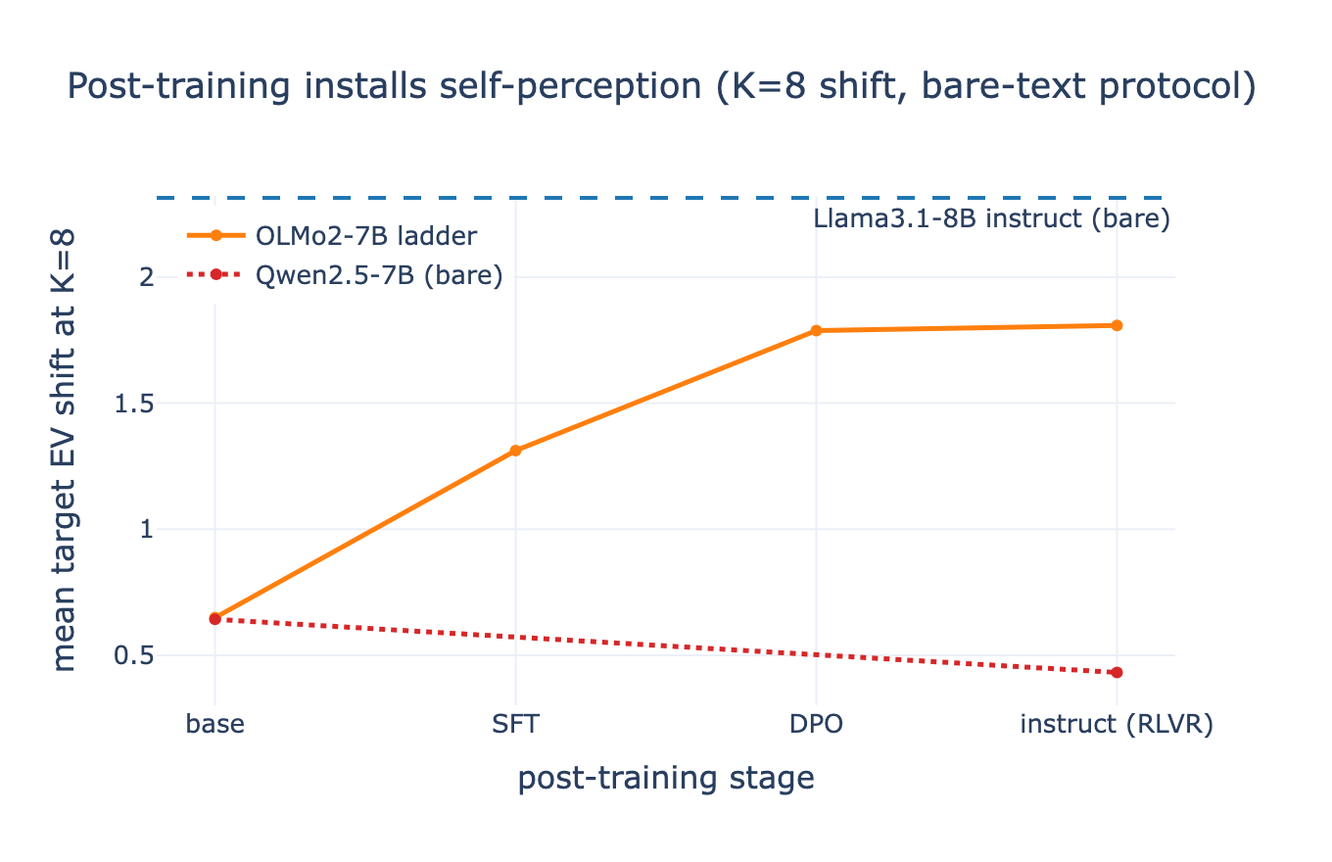
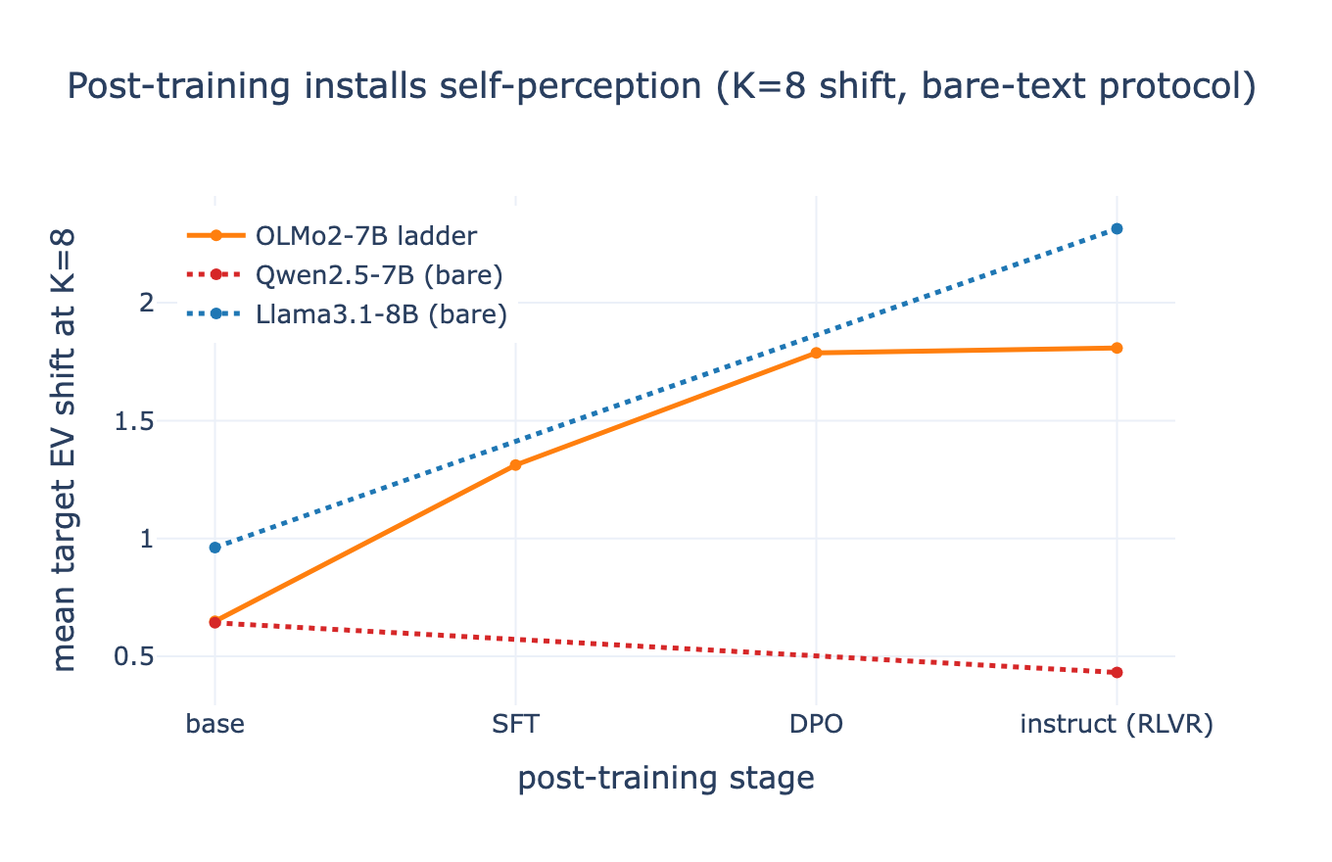
Note assets: Llama8Base folds into Exhibit 3 (other Claude ran it; analyzed here) — bases cluster low but not identical: Llama base +0.96 (10/20 items >+1) vs Qwen/OLMo +0.64/+0.65, paired p=.07/.10 marginal; base→own-instruct unambiguous (+0.96→+2.31, p=.007). Post-training multiplier by family: OL
Claude-Session: https://claude.ai/code/session_01WswaY6Pe8WTjJ8fkWw2pwh

diff --git a/rgb_reports/note_assets/fig_dose_response.html b/rgb_reports/note_assets/fig_dose_response.html
@@ -2,6 +2,6 @@
 <head><meta charset="utf-8" /></head>
 <body>
     <div>                        <script>window.PlotlyConfig = {MathJaxConfig: 'local'};</script>
-        <script charset="utf-8" src="https://cdn.plot.ly/plotly-3.4.0.min.js" integrity="sha256-KEmPoupLpFyGMyGAiOsiNDbKDKAvxXAn/W+oQa0ZAfk=" crossorigin="anonymous"></script>                <div id="e527c27c-555f-4b22-937a-86a04bb3e0d5" class="plotly-graph-div" style="height:440px; width:680px;"></div>            <script>                window.PLOTLYENV=window.PLOTLYENV || {};                                if (document.getElementById("e527c27c-555f-4b22-937a-86a04bb3e0d5")) {                    Plotly.newPlot(                        "e527c27c-555f-4b22-937a-86a04bb3e0d5",                        [{"line":{"color":"#1f77b4","width":2.5},"mode":"lines+markers","name":"Llama3.1-8B","x":[1,2,4,8,16,32],"y":[0.3215113865133689,0.7565782048769905,1.6692980164038846,2.626398513332851,3.0492405989334532,3.2888305071780772],"type":"scatter"},{"line":{"color":"#2ca02c","width":2.5},"mode":"lines+markers","name":"Gemma3-12B","x":[1,2,4,8,16,32],"y":[0.6683577570700046,0.8280305195939915,1.4369286830529788,1.82395749521288,2.1414539435204007,2.276292663532421],"type":"scatter"},{"line":{"color":"#d62728","width":2.5},"mode":"lines+markers","name":"Qwen2.5-7B","x":[1,2,4,8,16,32],"y":[-0.13380977864904015,0.08795590585218446,0.0576701126425989,0.08621995793043041,0.3238775951827736,0.5464746681226866],"type":"scatter"},{"line":{"color":"#9467bd","width":2.5},"mode":"lines+markers","name":"Phi4-3.8B","x":[1,2,4,8,16,32],"y":[0.12131485117013911,0.21246464582131827,0.22589328799117703,0.3476395492187805,0.49888159930901993,0.48372197911592824],"type":"scatter"}],                        {"template":{"data":{"barpolar":[{"marker":{"line":{"color":"white","width":0.5},"pattern":{"fillmode":"overlay","size":10,"solidity":0.2}},"type":"barpolar"}],"bar":[{"error_x":{"color":"#2a3f5f"},"error_y":{"color":"#2a3f5f"},"marker":{"line":{"color":"white","width":0.5},"pattern":{"fillmode":"overlay","size":10,"solidity":0.2}},"type":"bar"}],"carpet":[{"aaxis":{"endlinecolor":"#2a3f5f","gridcolor":"#C8D4E3","linecolor":"#C8D4E3","minorgridcolor":"#C8D4E3","startlinecolor":"#2a3f5f"},"baxis":{"endlinecolor":"#2a3f5f","gridcolor":"#C8D4E3","linecolor":"#C8D4E3","minorgridcolor":"#C8D4E3","startlinecolor":"#2a3f5f"},"type":"carpet"}],"choropleth":[{"colorbar":{"outlinewidth":0,"ticks":""},"type":"choropleth"}],"contourcarpet":[{"colorbar":{"outlinewidth":0,"ticks":""},"type":"contourcarpet"}],"contour":[{"colorbar":{"outlinewidth":0,"ticks":""},"colorscale":[[0.0,"#0d0887"],[0.1111111111111111,"#46039f"],[0.2222222222222222,"#7201a8"],[0.3333333333333333,"#9c179e"],[0.4444444444444444,"#bd3786"],[0.5555555555555556,"#d8576b"],[0.6666666666666666,"#ed7953"],[0.7777777777777778,"#fb9f3a"],[0.8888888888888888,"#fdca26"],[1.0,"#f0f921"]],"type":"contour"}],"heatmap":[{"colorbar":{"outlinewidth":0,"ticks":""},"colorscale":[[0.0,"#0d0887"],[0.1111111111111111,"#46039f"],[0.2222222222222222,"#7201a8"],[0.3333333333333333,"#9c179e"],[0.4444444444444444,"#bd3786"],[0.5555555555555556,"#d8576b"],[0.6666666666666666,"#ed7953"],[0.7777777777777778,"#fb9f3a"],[0.8888888888888888,"#fdca26"],[1.0,"#f0f921"]],"type":"heatmap"}],"histogram2dcontour":[{"colorbar":{"outlinewidth":0,"ticks":""},"colorscale":[[0.0,"#0d0887"],[0.1111111111111111,"#46039f"],[0.2222222222222222,"#7201a8"],[0.3333333333333333,"#9c179e"],[0.4444444444444444,"#bd3786"],[0.5555555555555556,"#d8576b"],[0.6666666666666666,"#ed7953"],[0.7777777777777778,"#fb9f3a"],[0.8888888888888888,"#fdca26"],[1.0,"#f0f921"]],"type":"histogram2dcontour"}],"histogram2d":[{"colorbar":{"outlinewidth":0,"ticks":""},"colorscale":[[0.0,"#0d0887"],[0.1111111111111111,"#46039f"],[0.2222222222222222,"#7201a8"],[0.3333333333333333,"#9c179e"],[0.4444444444444444,"#bd3786"],[0.5555555555555556,"#d8576b"],[0.6666666666666666,"#ed7953"],[0.7777777777777778,"#fb9f3a"],[0.8888888888888888,"#fdca26"],[1.0,"#f0f921"]],"type":"histogram2d"}],"histogram":[{"marker":{"pattern":{"fillmode":"overlay","size":10,"solidity":0.2}},"type":"histogram"}],"mesh3d":[{"colorbar":{"outlinewidth":0,"ticks":""},"type":"mesh3d"}],"parcoords":[{"line":{"colorbar":{"outlinewidth":0,"ticks":""}},"type":"parcoords"}],"pie":[{"automargin":true,"type":"pie"}],"scatter3d":[{"line":{"colorbar":{"outlinewidth":0,"ticks":""}},"marker":{"colorbar":{"outlinewidth":0,"ticks":""}},"type":"scatter3d"}],"scattercarpet":[{"marker":{"colorbar":{"outlinewidth":0,"ticks":""}},"type":"scattercarpet"}],"scattergeo":[{"marker":{"colorbar":{"outlinewidth":0,"ticks":""}},"type":"scattergeo"}],"scattergl":[{"marker":{"colorbar":{"outlinewidth":0,"ticks":""}},"type":"scattergl"}],"scattermapbox":[{"marker":{"colorbar":{"outlinewidth":0,"ticks":""}},"type":"scattermapbox"}],"scattermap":[{"marker":{"colorbar":{"outlinewidth":0,"ticks":""}},"type":"scattermap"}],"scatterpolargl":[{"marker":{"colorbar":{"outlinewidth":0,"ticks":""}},"type":"scatterpolargl"}],"scatterpolar":[{"marker":{"colorbar":{"outlinewidth":0,"ticks":""}},"type":"scatterpolar"}],"scatter":[{"fillpattern":{"fillmode":"overlay","size":10,"solidity":0.2},"type":"scatter"}],"scatterternary":[{"marker":{"colorbar":{"outlinewidth":0,"ticks":""}},"type":"scatterternary"}],"surface":[{"colorbar":{"outlinewidth":0,"ticks":""},"colorscale":[[0.0,"#0d0887"],[0.1111111111111111,"#46039f"],[0.2222222222222222,"#7201a8"],[0.3333333333333333,"#9c179e"],[0.4444444444444444,"#bd3786"],[0.5555555555555556,"#d8576b"],[0.6666666666666666,"#ed7953"],[0.7777777777777778,"#fb9f3a"],[0.8888888888888888,"#fdca26"],[1.0,"#f0f921"]],"type":"surface"}],"table":[{"cells":{"fill":{"color":"#EBF0F8"},"line":{"color":"white"}},"header":{"fill":{"color":"#C8D4E3"},"line":{"color":"white"}},"type":"table"}]},"layout":{"annotationdefaults":{"arrowcolor":"#2a3f5f","arrowhead":0,"arrowwidth":1},"autotypenumbers":"strict","coloraxis":{"colorbar":{"outlinewidth":0,"ticks":""}},"colorscale":{"diverging":[[0,"#8e0152"],[0.1,"#c51b7d"],[0.2,"#de77ae"],[0.3,"#f1b6da"],[0.4,"#fde0ef"],[0.5,"#f7f7f7"],[0.6,"#e6f5d0"],[0.7,"#b8e186"],[0.8,"#7fbc41"],[0.9,"#4d9221"],[1,"#276419"]],"sequential":[[0.0,"#0d0887"],[0.1111111111111111,"#46039f"],[0.2222222222222222,"#7201a8"],[0.3333333333333333,"#9c179e"],[0.4444444444444444,"#bd3786"],[0.5555555555555556,"#d8576b"],[0.6666666666666666,"#ed7953"],[0.7777777777777778,"#fb9f3a"],[0.8888888888888888,"#fdca26"],[1.0,"#f0f921"]],"sequentialminus":[[0.0,"#0d0887"],[0.1111111111111111,"#46039f"],[0.2222222222222222,"#7201a8"],[0.3333333333333333,"#9c179e"],[0.4444444444444444,"#bd3786"],[0.5555555555555556,"#d8576b"],[0.6666666666666666,"#ed7953"],[0.7777777777777778,"#fb9f3a"],[0.8888888888888888,"#fdca26"],[1.0,"#f0f921"]]},"colorway":["#636efa","#EF553B","#00cc96","#ab63fa","#FFA15A","#19d3f3","#FF6692","#B6E880","#FF97FF","#FECB52"],"font":{"color":"#2a3f5f"},"geo":{"bgcolor":"white","lakecolor":"white","landcolor":"white","showlakes":true,"showland":true,"subunitcolor":"#C8D4E3"},"hoverlabel":{"align":"left"},"hovermode":"closest","mapbox":{"style":"light"},"paper_bgcolor":"white","plot_bgcolor":"white","polar":{"angularaxis":{"gridcolor":"#EBF0F8","linecolor":"#EBF0F8","ticks":""},"bgcolor":"white","radialaxis":{"gridcolor":"#EBF0F8","linecolor":"#EBF0F8","ticks":""}},"scene":{"xaxis":{"backgroundcolor":"white","gridcolor":"#DFE8F3","gridwidth":2,"linecolor":"#EBF0F8","showbackground":true,"ticks":"","zerolinecolor":"#EBF0F8"},"yaxis":{"backgroundcolor":"white","gridcolor":"#DFE8F3","gridwidth":2,"linecolor":"#EBF0F8","showbackground":true,"ticks":"","zerolinecolor":"#EBF0F8"},"zaxis":{"backgroundcolor":"white","gridcolor":"#DFE8F3","gridwidth":2,"linecolor":"#EBF0F8","showbackground":true,"ticks":"","zerolinecolor":"#EBF0F8"}},"shapedefaults":{"line":{"color":"#2a3f5f"}},"ternary":{"aaxis":{"gridcolor":"#DFE8F3","linecolor":"#A2B1C6","ticks":""},"baxis":{"gridcolor":"#DFE8F3","linecolor":"#A2B1C6","ticks":""},"bgcolor":"white","caxis":{"gridcolor":"#DFE8F3","linecolor":"#A2B1C6","ticks":""}},"title":{"x":0.05},"xaxis":{"automargin":true,"gridcolor":"#EBF0F8","linecolor":"#EBF0F8","ticks":"","title":{"standoff":15},"zerolinecolor":"#EBF0F8","zerolinewidth":2},"yaxis":{"automargin":true,"gridcolor":"#EBF0F8","linecolor":"#EBF0F8","ticks":"","title":{"standoff":15},"zerolinecolor":"#EBF0F8","zerolinewidth":2}}},"xaxis":{"title":{"text":"K (in-context turns of own conduct)"},"type":"log","tickvals":[1,2,4,8,16,32]},"legend":{"x":0.02,"y":0.98},"font":{"size":13},"width":680,"height":440,"title":{"text":"Cold self-report shift vs dose of own conduct (arm A)"},"yaxis":{"title":{"text":"mean target EV shift vs K=0 (Likert 1–7)"}}},                        {"responsive": true}                    )                };            </script>        </div>
+        <script charset="utf-8" src="https://cdn.plot.ly/plotly-3.4.0.min.js" integrity="sha256-KEmPoupLpFyGMyGAiOsiNDbKDKAvxXAn/W+oQa0ZAfk=" crossorigin="anonymous"></script>                <div id="95e46ec4-4db1-462b-ba86-d9e6056ac30f" class="plotly-graph-div" style="height:440px; width:680px;"></div>            <script>                window.PLOTLYENV=window.PLOTLYENV || {};                                if (document.getElementById("95e46ec4-4db1-462b-ba86-d9e6056ac30f")) {                    Plotly.newPlot(                        "95e46ec4-4db1-462b-ba86-d9e6056ac30f",                        [{"line":{"color":"#1f77b4","width":2.5},"mode":"lines+markers","name":"Llama3.1-8B","x":[1,2,4,8,16,32],"y":[0.3215113865133689,0.7565782048769905,1.6692980164038846,2.626398513332851,3.0492405989334532,3.2888305071780772],"type":"scatter"},{"line":{"color":"#2ca02c","width":2.5},"mode":"lines+markers","name":"Gemma3-12B","x":[1,2,4,8,16,32],"y":[0.6683577570700046,0.8280305195939915,1.4369286830529788,1.82395749521288,2.1414539435204007,2.276292663532421],"type":"scatter"},{"line":{"color":"#d62728","width":2.5},"mode":"lines+markers","name":"Qwen2.5-7B","x":[1,2,4,8,16,32],"y":[-0.13380977864904015,0.08795590585218446,0.0576701126425989,0.08621995793043041,0.3238775951827736,0.5464746681226866],"type":"scatter"},{"line":{"color":"#9467bd","width":2.5},"mode":"lines+markers","name":"Phi4-3.8B","x":[1,2,4,8,16,32],"y":[0.12131485117013911,0.21246464582131827,0.22589328799117703,0.3476395492187805,0.49888159930901993,0.48372197911592824],"type":"scatter"}],                        {"template":{"data":{"barpolar":[{"marker":{"line":{"color":"white","width":0.5},"pattern":{"fillmode":"overlay","size":10,"solidity":0.2}},"type":"barpolar"}],"bar":[{"error_x":{"color":"#2a3f5f"},"error_y":{"color":"#2a3f5f"},"marker":{"line":{"color":"white","width":0.5},"pattern":{"fillmode":"overlay","size":10,"solidity":0.2}},"type":"bar"}],"carpet":[{"aaxis":{"endlinecolor":"#2a3f5f","gridcolor":"#C8D4E3","linecolor":"#C8D4E3","minorgridcolor":"#C8D4E3","startlinecolor":"#2a3f5f"},"baxis":{"endlinecolor":"#2a3f5f","gridcolor":"#C8D4E3","linecolor":"#C8D4E3","minorgridcolor":"#C8D4E3","startlinecolor":"#2a3f5f"},"type":"carpet"}],"choropleth":[{"colorbar":{"outlinewidth":0,"ticks":""},"type":"choropleth"}],"contourcarpet":[{"colorbar":{"outlinewidth":0,"ticks":""},"type":"contourcarpet"}],"contour":[{"colorbar":{"outlinewidth":0,"ticks":""},"colorscale":[[0.0,"#0d0887"],[0.1111111111111111,"#46039f"],[0.2222222222222222,"#7201a8"],[0.3333333333333333,"#9c179e"],[0.4444444444444444,"#bd3786"],[0.5555555555555556,"#d8576b"],[0.6666666666666666,"#ed7953"],[0.7777777777777778,"#fb9f3a"],[0.8888888888888888,"#fdca26"],[1.0,"#f0f921"]],"type":"contour"}],"heatmap":[{"colorbar":{"outlinewidth":0,"ticks":""},"colorscale":[[0.0,"#0d0887"],[0.1111111111111111,"#46039f"],[0.2222222222222222,"#7201a8"],[0.3333333333333333,"#9c179e"],[0.4444444444444444,"#bd3786"],[0.5555555555555556,"#d8576b"],[0.6666666666666666,"#ed7953"],[0.7777777777777778,"#fb9f3a"],[0.8888888888888888,"#fdca26"],[1.0,"#f0f921"]],"type":"heatmap"}],"histogram2dcontour":[{"colorbar":{"outlinewidth":0,"ticks":""},"colorscale":[[0.0,"#0d0887"],[0.1111111111111111,"#46039f"],[0.2222222222222222,"#7201a8"],[0.3333333333333333,"#9c179e"],[0.4444444444444444,"#bd3786"],[0.5555555555555556,"#d8576b"],[0.6666666666666666,"#ed7953"],[0.7777777777777778,"#fb9f3a"],[0.8888888888888888,"#fdca26"],[1.0,"#f0f921"]],"type":"histogram2dcontour"}],"histogram2d":[{"colorbar":{"outlinewidth":0,"ticks":""},"colorscale":[[0.0,"#0d0887"],[0.1111111111111111,"#46039f"],[0.2222222222222222,"#7201a8"],[0.3333333333333333,"#9c179e"],[0.4444444444444444,"#bd3786"],[0.5555555555555556,"#d8576b"],[0.6666666666666666,"#ed7953"],[0.7777777777777778,"#fb9f3a"],[0.8888888888888888,"#fdca26"],[1.0,"#f0f921"]],"type":"histogram2d"}],"histogram":[{"marker":{"pattern":{"fillmode":"overlay","size":10,"solidity":0.2}},"type":"histogram"}],"mesh3d":[{"colorbar":{"outlinewidth":0,"ticks":""},"type":"mesh3d"}],"parcoords":[{"line":{"colorbar":{"outlinewidth":0,"ticks":""}},"type":"parcoords"}],"pie":[{"automargin":true,"type":"pie"}],"scatter3d":[{"line":{"colorbar":{"outlinewidth":0,"ticks":""}},"marker":{"colorbar":{"outlinewidth":0,"ticks":""}},"type":"scatter3d"}],"scattercarpet":[{"marker":{"colorbar":{"outlinewidth":0,"ticks":""}},"type":"scattercarpet"}],"scattergeo":[{"marker":{"colorbar":{"outlinewidth":0,"ticks":""}},"type":"scattergeo"}],"scattergl":[{"marker":{"colorbar":{"outlinewidth":0,"ticks":""}},"type":"scattergl"}],"scattermapbox":[{"marker":{"colorbar":{"outlinewidth":0,"ticks":""}},"type":"scattermapbox"}],"scattermap":[{"marker":{"colorbar":{"outlinewidth":0,"ticks":""}},"type":"scattermap"}],"scatterpolargl":[{"marker":{"colorbar":{"outlinewidth":0,"ticks":""}},"type":"scatterpolargl"}],"scatterpolar":[{"marker":{"colorbar":{"outlinewidth":0,"ticks":""}},"type":"scatterpolar"}],"scatter":[{"fillpattern":{"fillmode":"overlay","size":10,"solidity":0.2},"type":"scatter"}],"scatterternary":[{"marker":{"colorbar":{"outlinewidth":0,"ticks":""}},"type":"scatterternary"}],"surface":[{"colorbar":{"outlinewidth":0,"ticks":""},"colorscale":[[0.0,"#0d0887"],[0.1111111111111111,"#46039f"],[0.2222222222222222,"#7201a8"],[0.3333333333333333,"#9c179e"],[0.4444444444444444,"#bd3786"],[0.5555555555555556,"#d8576b"],[0.6666666666666666,"#ed7953"],[0.7777777777777778,"#fb9f3a"],[0.8888888888888888,"#fdca26"],[1.0,"#f0f921"]],"type":"surface"}],"table":[{"cells":{"fill":{"color":"#EBF0F8"},"line":{"color":"white"}},"header":{"fill":{"color":"#C8D4E3"},"line":{"color":"white"}},"type":"table"}]},"layout":{"annotationdefaults":{"arrowcolor":"#2a3f5f","arrowhead":0,"arrowwidth":1},"autotypenumbers":"strict","coloraxis":{"colorbar":{"outlinewidth":0,"ticks":""}},"colorscale":{"diverging":[[0,"#8e0152"],[0.1,"#c51b7d"],[0.2,"#de77ae"],[0.3,"#f1b6da"],[0.4,"#fde0ef"],[0.5,"#f7f7f7"],[0.6,"#e6f5d0"],[0.7,"#b8e186"],[0.8,"#7fbc41"],[0.9,"#4d9221"],[1,"#276419"]],"sequential":[[0.0,"#0d0887"],[0.1111111111111111,"#46039f"],[0.2222222222222222,"#7201a8"],[0.3333333333333333,"#9c179e"],[0.4444444444444444,"#bd3786"],[0.5555555555555556,"#d8576b"],[0.6666666666666666,"#ed7953"],[0.7777777777777778,"#fb9f3a"],[0.8888888888888888,"#fdca26"],[1.0,"#f0f921"]],"sequentialminus":[[0.0,"#0d0887"],[0.1111111111111111,"#46039f"],[0.2222222222222222,"#7201a8"],[0.3333333333333333,"#9c179e"],[0.4444444444444444,"#bd3786"],[0.5555555555555556,"#d8576b"],[0.6666666666666666,"#ed7953"],[0.7777777777777778,"#fb9f3a"],[0.8888888888888888,"#fdca26"],[1.0,"#f0f921"]]},"colorway":["#636efa","#EF553B","#00cc96","#ab63fa","#FFA15A","#19d3f3","#FF6692","#B6E880","#FF97FF","#FECB52"],"font":{"color":"#2a3f5f"},"geo":{"bgcolor":"white","lakecolor":"white","landcolor":"white","showlakes":true,"showland":true,"subunitcolor":"#C8D4E3"},"hoverlabel":{"align":"left"},"hovermode":"closest","mapbox":{"style":"light"},"paper_bgcolor":"white","plot_bgcolor":"white","polar":{"angularaxis":{"gridcolor":"#EBF0F8","linecolor":"#EBF0F8","ticks":""},"bgcolor":"white","radialaxis":{"gridcolor":"#EBF0F8","linecolor":"#EBF0F8","ticks":""}},"scene":{"xaxis":{"backgroundcolor":"white","gridcolor":"#DFE8F3","gridwidth":2,"linecolor":"#EBF0F8","showbackground":true,"ticks":"","zerolinecolor":"#EBF0F8"},"yaxis":{"backgroundcolor":"white","gridcolor":"#DFE8F3","gridwidth":2,"linecolor":"#EBF0F8","showbackground":true,"ticks":"","zerolinecolor":"#EBF0F8"},"zaxis":{"backgroundcolor":"white","gridcolor":"#DFE8F3","gridwidth":2,"linecolor":"#EBF0F8","showbackground":true,"ticks":"","zerolinecolor":"#EBF0F8"}},"shapedefaults":{"line":{"color":"#2a3f5f"}},"ternary":{"aaxis":{"gridcolor":"#DFE8F3","linecolor":"#A2B1C6","ticks":""},"baxis":{"gridcolor":"#DFE8F3","linecolor":"#A2B1C6","ticks":""},"bgcolor":"white","caxis":{"gridcolor":"#DFE8F3","linecolor":"#A2B1C6","ticks":""}},"title":{"x":0.05},"xaxis":{"automargin":true,"gridcolor":"#EBF0F8","linecolor":"#EBF0F8","ticks":"","title":{"standoff":15},"zerolinecolor":"#EBF0F8","zerolinewidth":2},"yaxis":{"automargin":true,"gridcolor":"#EBF0F8","linecolor":"#EBF0F8","ticks":"","title":{"standoff":15},"zerolinecolor":"#EBF0F8","zerolinewidth":2}}},"xaxis":{"title":{"text":"K (in-context turns of own conduct)"},"type":"log","tickvals":[1,2,4,8,16,32]},"legend":{"x":0.02,"y":0.98},"font":{"size":13},"width":680,"height":440,"title":{"text":"Cold self-report shift vs dose of own conduct (arm A)"},"yaxis":{"title":{"text":"mean target EV shift vs K=0 (Likert 1–7)"}}},                        {"responsive": true}                    )                };            </script>        </div>
 </body>
 </html>

diff --git a/rgb_reports/note_assets/fig_ladder.html b/rgb_reports/note_assets/fig_ladder.html
@@ -2,6 +2,6 @@
 <head><meta charset="utf-8" /></head>
 <body>
     <div>                        <script>window.PlotlyConfig = {MathJaxConfig: 'local'};</script>
-        <script charset="utf-8" src="https://cdn.plot.ly/plotly-3.4.0.min.js" integrity="sha256-KEmPoupLpFyGMyGAiOsiNDbKDKAvxXAn/W+oQa0ZAfk=" crossorigin="anonymous"></script>                <div id="ecf45157-3bc5-4982-822f-23a8a93596a8" class="plotly-graph-div" style="height:440px; width:680px;"></div>            <script>                window.PLOTLYENV=window.PLOTLYENV || {};                                if (document.getElementById("ecf45157-3bc5-4982-822f-23a8a93596a8")) {                    Plotly.newPlot(                        "ecf45157-3bc5-4982-822f-23a8a93596a8",                        [{"line":{"color":"#ff7f0e","width":2.5},"mode":"lines+markers","name":"OLMo2-7B ladder","x":["base","SFT","DPO","instruct (RLVR)"],"y":[0.6487380935543748,1.3115380715936258,1.7875910523448222,1.8082616659730726],"type":"scatter"},{"line":{"color":"#d62728","dash":"dot","width":2.5},"mode":"lines+markers","name":"Qwen2.5-7B (bare)","x":["base","instruct (RLVR)"],"y":[0.6421499035555496,0.43155263450008186],"type":"scatter"}],                        {"template":{"data":{"barpolar":[{"marker":{"line":{"color":"white","width":0.5},"pattern":{"fillmode":"overlay","size":10,"solidity":0.2}},"type":"barpolar"}],"bar":[{"error_x":{"color":"#2a3f5f"},"error_y":{"color":"#2a3f5f"},"marker":{"line":{"color":"white","width":0.5},"pattern":{"fillmode":"overlay","size":10,"solidity":0.2}},"type":"bar"}],"carpet":[{"aaxis":{"endlinecolor":"#2a3f5f","gridcolor":"#C8D4E3","linecolor":"#C8D4E3","minorgridcolor":"#C8D4E3","startlinecolor":"#2a3f5f"},"baxis":{"endlinecolor":"#2a3f5f","gridcolor":"#C8D4E3","linecolor":"#C8D4E3","minorgridcolor":"#C8D4E3","startlinecolor":"#2a3f5f"},"type":"carpet"}],"choropleth":[{"colorbar":{"outlinewidth":0,"ticks":""},"type":"choropleth"}],"contourcarpet":[{"colorbar":{"outlinewidth":0,"ticks":""},"type":"contourcarpet"}],"contour":[{"colorbar":{"outlinewidth":0,"ticks":""},"colorscale":[[0.0,"#0d0887"],[0.1111111111111111,"#46039f"],[0.2222222222222222,"#7201a8"],[0.3333333333333333,"#9c179e"],[0.4444444444444444,"#bd3786"],[0.5555555555555556,"#d8576b"],[0.6666666666666666,"#ed7953"],[0.7777777777777778,"#fb9f3a"],[0.8888888888888888,"#fdca26"],[1.0,"#f0f921"]],"type":"contour"}],"heatmap":[{"colorbar":{"outlinewidth":0,"ticks":""},"colorscale":[[0.0,"#0d0887"],[0.1111111111111111,"#46039f"],[0.2222222222222222,"#7201a8"],[0.3333333333333333,"#9c179e"],[0.4444444444444444,"#bd3786"],[0.5555555555555556,"#d8576b"],[0.6666666666666666,"#ed7953"],[0.7777777777777778,"#fb9f3a"],[0.8888888888888888,"#fdca26"],[1.0,"#f0f921"]],"type":"heatmap"}],"histogram2dcontour":[{"colorbar":{"outlinewidth":0,"ticks":""},"colorscale":[[0.0,"#0d0887"],[0.1111111111111111,"#46039f"],[0.2222222222222222,"#7201a8"],[0.3333333333333333,"#9c179e"],[0.4444444444444444,"#bd3786"],[0.5555555555555556,"#d8576b"],[0.6666666666666666,"#ed7953"],[0.7777777777777778,"#fb9f3a"],[0.8888888888888888,"#fdca26"],[1.0,"#f0f921"]],"type":"histogram2dcontour"}],"histogram2d":[{"colorbar":{"outlinewidth":0,"ticks":""},"colorscale":[[0.0,"#0d0887"],[0.1111111111111111,"#46039f"],[0.2222222222222222,"#7201a8"],[0.3333333333333333,"#9c179e"],[0.4444444444444444,"#bd3786"],[0.5555555555555556,"#d8576b"],[0.6666666666666666,"#ed7953"],[0.7777777777777778,"#fb9f3a"],[0.8888888888888888,"#fdca26"],[1.0,"#f0f921"]],"type":"histogram2d"}],"histogram":[{"marker":{"pattern":{"fillmode":"overlay","size":10,"solidity":0.2}},"type":"histogram"}],"mesh3d":[{"colorbar":{"outlinewidth":0,"ticks":""},"type":"mesh3d"}],"parcoords":[{"line":{"colorbar":{"outlinewidth":0,"ticks":""}},"type":"parcoords"}],"pie":[{"automargin":true,"type":"pie"}],"scatter3d":[{"line":{"colorbar":{"outlinewidth":0,"ticks":""}},"marker":{"colorbar":{"outlinewidth":0,"ticks":""}},"type":"scatter3d"}],"scattercarpet":[{"marker":{"colorbar":{"outlinewidth":0,"ticks":""}},"type":"scattercarpet"}],"scattergeo":[{"marker":{"colorbar":{"outlinewidth":0,"ticks":""}},"type":"scattergeo"}],"scattergl":[{"marker":{"colorbar":{"outlinewidth":0,"ticks":""}},"type":"scattergl"}],"scattermapbox":[{"marker":{"colorbar":{"outlinewidth":0,"ticks":""}},"type":"scattermapbox"}],"scattermap":[{"marker":{"colorbar":{"outlinewidth":0,"ticks":""}},"type":"scattermap"}],"scatterpolargl":[{"marker":{"colorbar":{"outlinewidth":0,"ticks":""}},"type":"scatterpolargl"}],"scatterpolar":[{"marker":{"colorbar":{"outlinewidth":0,"ticks":""}},"type":"scatterpolar"}],"scatter":[{"fillpattern":{"fillmode":"overlay","size":10,"solidity":0.2},"type":"scatter"}],"scatterternary":[{"marker":{"colorbar":{"outlinewidth":0,"ticks":""}},"type":"scatterternary"}],"surface":[{"colorbar":{"outlinewidth":0,"ticks":""},"colorscale":[[0.0,"#0d0887"],[0.1111111111111111,"#46039f"],[0.2222222222222222,"#7201a8"],[0.3333333333333333,"#9c179e"],[0.4444444444444444,"#bd3786"],[0.5555555555555556,"#d8576b"],[0.6666666666666666,"#ed7953"],[0.7777777777777778,"#fb9f3a"],[0.8888888888888888,"#fdca26"],[1.0,"#f0f921"]],"type":"surface"}],"table":[{"cells":{"fill":{"color":"#EBF0F8"},"line":{"color":"white"}},"header":{"fill":{"color":"#C8D4E3"},"line":{"color":"white"}},"type":"table"}]},"layout":{"annotationdefaults":{"arrowcolor":"#2a3f5f","arrowhead":0,"arrowwidth":1},"autotypenumbers":"strict","coloraxis":{"colorbar":{"outlinewidth":0,"ticks":""}},"colorscale":{"diverging":[[0,"#8e0152"],[0.1,"#c51b7d"],[0.2,"#de77ae"],[0.3,"#f1b6da"],[0.4,"#fde0ef"],[0.5,"#f7f7f7"],[0.6,"#e6f5d0"],[0.7,"#b8e186"],[0.8,"#7fbc41"],[0.9,"#4d9221"],[1,"#276419"]],"sequential":[[0.0,"#0d0887"],[0.1111111111111111,"#46039f"],[0.2222222222222222,"#7201a8"],[0.3333333333333333,"#9c179e"],[0.4444444444444444,"#bd3786"],[0.5555555555555556,"#d8576b"],[0.6666666666666666,"#ed7953"],[0.7777777777777778,"#fb9f3a"],[0.8888888888888888,"#fdca26"],[1.0,"#f0f921"]],"sequentialminus":[[0.0,"#0d0887"],[0.1111111111111111,"#46039f"],[0.2222222222222222,"#7201a8"],[0.3333333333333333,"#9c179e"],[0.4444444444444444,"#bd3786"],[0.5555555555555556,"#d8576b"],[0.6666666666666666,"#ed7953"],[0.7777777777777778,"#fb9f3a"],[0.8888888888888888,"#fdca26"],[1.0,"#f0f921"]]},"colorway":["#636efa","#EF553B","#00cc96","#ab63fa","#FFA15A","#19d3f3","#FF6692","#B6E880","#FF97FF","#FECB52"],"font":{"color":"#2a3f5f"},"geo":{"bgcolor":"white","lakecolor":"white","landcolor":"white","showlakes":true,"showland":true,"subunitcolor":"#C8D4E3"},"hoverlabel":{"align":"left"},"hovermode":"closest","mapbox":{"style":"light"},"paper_bgcolor":"white","plot_bgcolor":"white","polar":{"angularaxis":{"gridcolor":"#EBF0F8","linecolor":"#EBF0F8","ticks":""},"bgcolor":"white","radialaxis":{"gridcolor":"#EBF0F8","linecolor":"#EBF0F8","ticks":""}},"scene":{"xaxis":{"backgroundcolor":"white","gridcolor":"#DFE8F3","gridwidth":2,"linecolor":"#EBF0F8","showbackground":true,"ticks":"","zerolinecolor":"#EBF0F8"},"yaxis":{"backgroundcolor":"white","gridcolor":"#DFE8F3","gridwidth":2,"linecolor":"#EBF0F8","showbackground":true,"ticks":"","zerolinecolor":"#EBF0F8"},"zaxis":{"backgroundcolor":"white","gridcolor":"#DFE8F3","gridwidth":2,"linecolor":"#EBF0F8","showbackground":true,"ticks":"","zerolinecolor":"#EBF0F8"}},"shapedefaults":{"line":{"color":"#2a3f5f"}},"ternary":{"aaxis":{"gridcolor":"#DFE8F3","linecolor":"#A2B1C6","ticks":""},"baxis":{"gridcolor":"#DFE8F3","linecolor":"#A2B1C6","ticks":""},"bgcolor":"white","caxis":{"gridcolor":"#DFE8F3","linecolor":"#A2B1C6","ticks":""}},"title":{"x":0.05},"xaxis":{"automargin":true,"gridcolor":"#EBF0F8","linecolor":"#EBF0F8","ticks":"","title":{"standoff":15},"zerolinecolor":"#EBF0F8","zerolinewidth":2},"yaxis":{"automargin":true,"gridcolor":"#EBF0F8","linecolor":"#EBF0F8","ticks":"","title":{"standoff":15},"zerolinecolor":"#EBF0F8","zerolinewidth":2}}},"shapes":[{"line":{"color":"#1f77b4","dash":"dash"},"type":"line","x0":0,"x1":1,"xref":"x domain","y0":2.3142949682654796,"y1":2.3142949682654796,"yref":"y"}],"annotations":[{"showarrow":false,"text":"Llama3.1-8B instruct (bare)","x":1,"xanchor":"right","xref":"x domain","y":2.3142949682654796,"yanchor":"top","yref":"y"}],"legend":{"x":0.02,"y":0.98},"font":{"size":13},"width":680,"height":440,"title":{"text":"Post-training installs self-perception (K=8 shift, bare-text protocol)"},"yaxis":{"title":{"text":"mean target EV shift at K=8"}},"xaxis":{"title":{"text":"post-training stage"}}},                        {"responsive": true}                    )                };            </script>        </div>
+        <script charset="utf-8" src="https://cdn.plot.ly/plotly-3.4.0.min.js" integrity="sha256-KEmPoupLpFyGMyGAiOsiNDbKDKAvxXAn/W+oQa0ZAfk=" crossorigin="anonymous"></script>                <div id="ac531e6b-f380-4486-91cc-525b0b0197fc" class="plotly-graph-div" style="height:440px; width:680px;"></div>            <script>                window.PLOTLYENV=window.PLOTLYENV || {};                                if (document.getElementById("ac531e6b-f380-4486-91cc-525b0b0197fc")) {                    Plotly.newPlot(                        "ac531e6b-f380-4486-91cc-525b0b0197fc",                        [{"line":{"color":"#ff7f0e","width":2.5},"mode":"lines+markers","name":"OLMo2-7B ladder","x":["base","SFT","DPO","instruct (RLVR)"],"y":[0.6487380935543748,1.3115380715936258,1.7875910523448222,1.8082616659730726],"type":"scatter"},{"line":{"color":"#d62728","dash":"dot","width":2.5},"mode":"lines+markers","name":"Qwen2.5-7B (bare)","x":["base","instruct (RLVR)"],"y":[0.6421499035555496,0.43155263450008186],"type":"scatter"},{"line":{"color":"#1f77b4","dash":"dot","width":2.5},"mode":"lines+markers","name":"Llama3.1-8B (bare)","x":["base","instruct (RLVR)"],"y":[0.9615230805985554,2.3142949682654796],"type":"scatter"}],                        {"template":{"data":{"barpolar":[{"marker":{"line":{"color":"white","width":0.5},"pattern":{"fillmode":"overlay","size":10,"solidity":0.2}},"type":"barpolar"}],"bar":[{"error_x":{"color":"#2a3f5f"},"error_y":{"color":"#2a3f5f"},"marker":{"line":{"color":"white","width":0.5},"pattern":{"fillmode":"overlay","size":10,"solidity":0.2}},"type":"bar"}],"carpet":[{"aaxis":{"endlinecolor":"#2a3f5f","gridcolor":"#C8D4E3","linecolor":"#C8D4E3","minorgridcolor":"#C8D4E3","startlinecolor":"#2a3f5f"},"baxis":{"endlinecolor":"#2a3f5f","gridcolor":"#C8D4E3","linecolor":"#C8D4E3","minorgridcolor":"#C8D4E3","startlinecolor":"#2a3f5f"},"type":"carpet"}],"choropleth":[{"colorbar":{"outlinewidth":0,"ticks":""},"type":"choropleth"}],"contourcarpet":[{"colorbar":{"outlinewidth":0,"ticks":""},"type":"contourcarpet"}],"contour":[{"colorbar":{"outlinewidth":0,"ticks":""},"colorscale":[[0.0,"#0d0887"],[0.1111111111111111,"#46039f"],[0.2222222222222222,"#7201a8"],[0.3333333333333333,"#9c179e"],[0.4444444444444444,"#bd3786"],[0.5555555555555556,"#d8576b"],[0.6666666666666666,"#ed7953"],[0.7777777777777778,"#fb9f3a"],[0.8888888888888888,"#fdca26"],[1.0,"#f0f921"]],"type":"contour"}],"heatmap":[{"colorbar":{"outlinewidth":0,"ticks":""},"colorscale":[[0.0,"#0d0887"],[0.1111111111111111,"#46039f"],[0.2222222222222222,"#7201a8"],[0.3333333333333333,"#9c179e"],[0.4444444444444444,"#bd3786"],[0.5555555555555556,"#d8576b"],[0.6666666666666666,"#ed7953"],[0.7777777777777778,"#fb9f3a"],[0.8888888888888888,"#fdca26"],[1.0,"#f0f921"]],"type":"heatmap"}],"histogram2dcontour":[{"colorbar":{"outlinewidth":0,"ticks":""},"colorscale":[[0.0,"#0d0887"],[0.1111111111111111,"#46039f"],[0.2222222222222222,"#7201a8"],[0.3333333333333333,"#9c179e"],[0.4444444444444444,"#bd3786"],[0.5555555555555556,"#d8576b"],[0.6666666666666666,"#ed7953"],[0.7777777777777778,"#fb9f3a"],[0.8888888888888888,"#fdca26"],[1.0,"#f0f921"]],"type":"histogram2dcontour"}],"histogram2d":[{"colorbar":{"outlinewidth":0,"ticks":""},"colorscale":[[0.0,"#0d0887"],[0.1111111111111111,"#46039f"],[0.2222222222222222,"#7201a8"],[0.3333333333333333,"#9c179e"],[0.4444444444444444,"#bd3786"],[0.5555555555555556,"#d8576b"],[0.6666666666666666,"#ed7953"],[0.7777777777777778,"#fb9f3a"],[0.8888888888888888,"#fdca26"],[1.0,"#f0f921"]],"type":"histogram2d"}],"histogram":[{"marker":{"pattern":{"fillmode":"overlay","size":10,"solidity":0.2}},"type":"histogram"}],"mesh3d":[{"colorbar":{"outlinewidth":0,"ticks":""},"type":"mesh3d"}],"parcoords":[{"line":{"colorbar":{"outlinewidth":0,"ticks":""}},"type":"parcoords"}],"pie":[{"automargin":true,"type":"pie"}],"scatter3d":[{"line":{"colorbar":{"outlinewidth":0,"ticks":""}},"marker":{"colorbar":{"outlinewidth":0,"ticks":""}},"type":"scatter3d"}],"scattercarpet":[{"marker":{"colorbar":{"outlinewidth":0,"ticks":""}},"type":"scattercarpet"}],"scattergeo":[{"marker":{"colorbar":{"outlinewidth":0,"ticks":""}},"type":"scattergeo"}],"scattergl":[{"marker":{"colorbar":{"outlinewidth":0,"ticks":""}},"type":"scattergl"}],"scattermapbox":[{"marker":{"colorbar":{"outlinewidth":0,"ticks":""}},"type":"scattermapbox"}],"scattermap":[{"marker":{"colorbar":{"outlinewidth":0,"ticks":""}},"type":"scattermap"}],"scatterpolargl":[{"marker":{"colorbar":{"outlinewidth":0,"ticks":""}},"type":"scatterpolargl"}],"scatterpolar":[{"marker":{"colorbar":{"outlinewidth":0,"ticks":""}},"type":"scatterpolar"}],"scatter":[{"fillpattern":{"fillmode":"overlay","size":10,"solidity":0.2},"type":"scatter"}],"scatterternary":[{"marker":{"colorbar":{"outlinewidth":0,"ticks":""}},"type":"scatterternary"}],"surface":[{"colorbar":{"outlinewidth":0,"ticks":""},"colorscale":[[0.0,"#0d0887"],[0.1111111111111111,"#46039f"],[0.2222222222222222,"#7201a8"],[0.3333333333333333,"#9c179e"],[0.4444444444444444,"#bd3786"],[0.5555555555555556,"#d8576b"],[0.6666666666666666,"#ed7953"],[0.7777777777777778,"#fb9f3a"],[0.8888888888888888,"#fdca26"],[1.0,"#f0f921"]],"type":"surface"}],"table":[{"cells":{"fill":{"color":"#EBF0F8"},"line":{"color":"white"}},"header":{"fill":{"color":"#C8D4E3"},"line":{"color":"white"}},"type":"table"}]},"layout":{"annotationdefaults":{"arrowcolor":"#2a3f5f","arrowhead":0,"arrowwidth":1},"autotypenumbers":"strict","coloraxis":{"colorbar":{"outlinewidth":0,"ticks":""}},"colorscale":{"diverging":[[0,"#8e0152"],[0.1,"#c51b7d"],[0.2,"#de77ae"],[0.3,"#f1b6da"],[0.4,"#fde0ef"],[0.5,"#f7f7f7"],[0.6,"#e6f5d0"],[0.7,"#b8e186"],[0.8,"#7fbc41"],[0.9,"#4d9221"],[1,"#276419"]],"sequential":[[0.0,"#0d0887"],[0.1111111111111111,"#46039f"],[0.2222222222222222,"#7201a8"],[0.3333333333333333,"#9c179e"],[0.4444444444444444,"#bd3786"],[0.5555555555555556,"#d8576b"],[0.6666666666666666,"#ed7953"],[0.7777777777777778,"#fb9f3a"],[0.8888888888888888,"#fdca26"],[1.0,"#f0f921"]],"sequentialminus":[[0.0,"#0d0887"],[0.1111111111111111,"#46039f"],[0.2222222222222222,"#7201a8"],[0.3333333333333333,"#9c179e"],[0.4444444444444444,"#bd3786"],[0.5555555555555556,"#d8576b"],[0.6666666666666666,"#ed7953"],[0.7777777777777778,"#fb9f3a"],[0.8888888888888888,"#fdca26"],[1.0,"#f0f921"]]},"colorway":["#636efa","#EF553B","#00cc96","#ab63fa","#FFA15A","#19d3f3","#FF6692","#B6E880","#FF97FF","#FECB52"],"font":{"color":"#2a3f5f"},"geo":{"bgcolor":"white","lakecolor":"white","landcolor":"white","showlakes":true,"showland":true,"subunitcolor":"#C8D4E3"},"hoverlabel":{"align":"left"},"hovermode":"closest","mapbox":{"style":"light"},"paper_bgcolor":"white","plot_bgcolor":"white","polar":{"angularaxis":{"gridcolor":"#EBF0F8","linecolor":"#EBF0F8","ticks":""},"bgcolor":"white","radialaxis":{"gridcolor":"#EBF0F8","linecolor":"#EBF0F8","ticks":""}},"scene":{"xaxis":{"backgroundcolor":"white","gridcolor":"#DFE8F3","gridwidth":2,"linecolor":"#EBF0F8","showbackground":true,"ticks":"","zerolinecolor":"#EBF0F8"},"yaxis":{"backgroundcolor":"white","gridcolor":"#DFE8F3","gridwidth":2,"linecolor":"#EBF0F8","showbackground":true,"ticks":"","zerolinecolor":"#EBF0F8"},"zaxis":{"backgroundcolor":"white","gridcolor":"#DFE8F3","gridwidth":2,"linecolor":"#EBF0F8","showbackground":true,"ticks":"","zerolinecolor":"#EBF0F8"}},"shapedefaults":{"line":{"color":"#2a3f5f"}},"ternary":{"aaxis":{"gridcolor":"#DFE8F3","linecolor":"#A2B1C6","ticks":""},"baxis":{"gridcolor":"#DFE8F3","linecolor":"#A2B1C6","ticks":""},"bgcolor":"white","caxis":{"gridcolor":"#DFE8F3","linecolor":"#A2B1C6","ticks":""}},"title":{"x":0.05},"xaxis":{"automargin":true,"gridcolor":"#EBF0F8","linecolor":"#EBF0F8","ticks":"","title":{"standoff":15},"zerolinecolor":"#EBF0F8","zerolinewidth":2},"yaxis":{"automargin":true,"gridcolor":"#EBF0F8","linecolor":"#EBF0F8","ticks":"","title":{"standoff":15},"zerolinecolor":"#EBF0F8","zerolinewidth":2}}},"legend":{"x":0.02,"y":0.98},"font":{"size":13},"width":680,"height":440,"title":{"text":"Post-training installs self-perception (K=8 shift, bare-text protocol)"},"yaxis":{"title":{"text":"mean target EV shift at K=8"}},"xaxis":{"title":{"text":"post-training stage"}}},                        {"responsive": true}                    )                };            </script>        </div>
 </body>
 </html>

diff --git a/scripts/note_selfperception_assets.py b/scripts/note_selfperception_assets.py
@@ -296,8 +296,8 @@ LADDER = [("Olmo2Base", "", disp("Olmo2Base") + " (pretrained)"),
           ("Olmo2Inst", "", disp("Olmo2Inst") + " = instruct"),
           ("Qwen7Base_bare", "", disp("Qwen7Base") + " (bare)"),
           ("Qwen7_bare", "", disp("Qwen7") + " instruct (bare)"),
-          ("Llama8_bare", "", disp("Llama8") + " instruct (bare) — "
-           "control")]
+          ("Llama8Base_bare", "", disp("Llama8Base") + " (bare)"),
+          ("Llama8_bare", "", disp("Llama8") + " instruct (bare)")]
 ladder_pts = {}
 ladder_chk = {}
 for m, tag, label in LADDER:
@@ -312,7 +312,15 @@ for m, tag, label in LADDER:
               f"{bold(mu[8])} | {n1}/{len(sh)} | {ent:.2f} |")
 verify.append(("8g/8h K8 (OLMo .65/1.31/1.79/1.81; QwenBase .64 "
                "Qwen .43 Llama8 2.31)", ladder_chk))
-md.append("")
+md += ["", "Bases cluster low but are not identical: Llama8Base +0.96 "
+       "(10/20 items >+1) vs Qwen/OLMo bases +0.64/+0.65 — paired diff "
+       "+0.32/+0.31, p = .07/.10 (marginal, n=20), while base→own-"
+       "instruct is unambiguous (Llama +0.96→+2.31, p = .007). "
+       "Post-training multiplier by family: OLMo ×2.8, Llama ×2.4, "
+       "Qwen ×0.7. Caveat: each base is dosed with its own family's "
+       "instruct rollouts (own-voice principle), so material quality "
+       "rides along with weights. Gemma12Base cell pending (downloading "
+       "2026-08-02).", ""]
 
 # ---------------- Exhibit 4: hidden updates ----------------
 md += [f"## Exhibit 4 — {disp('Qwen7')} hidden updates: judged conduct "
@@ -390,10 +398,12 @@ fig2.add_trace(go.Scatter(
        ladder_pts[disp("Qwen7") + " instruct (bare)"]],
     mode="lines+markers", name=disp("Qwen7") + " (bare)",
     line=dict(color="#d62728", width=2.5, dash="dot")))
-fig2.add_hline(y=ladder_pts[disp("Llama8") + " instruct (bare) — control"],
-               line_dash="dash", line_color="#1f77b4",
-               annotation_text=disp("Llama8") + " instruct (bare)",
-               annotation_position="bottom right")
+fig2.add_trace(go.Scatter(
+    x=["base", "instruct (RLVR)"],
+    y=[ladder_pts[disp("Llama8Base") + " (bare)"],
+       ladder_pts[disp("Llama8") + " instruct (bare)"]],
+    mode="lines+markers", name=disp("Llama8") + " (bare)",
+    line=dict(color="#1f77b4", width=2.5, dash="dot")))
 fig2.update_layout(
     template="plotly_white", width=680, height=440,
     title="Post-training installs self-perception (K=8 shift, bare-text "

diff --git a/rgb_reports/note_assets/tables.md b/rgb_reports/note_assets/tables.md
@@ -107,7 +107,10 @@ Note: design-doc §8c cited 10/20 disowning for Qwen default from a hand count; 
 | OLMo2-7B-RLVR = instruct | +0.81 | +1.03 | +1.55 | **+1.81** | 9/20 | 1.30 |
 | Qwen2.5-7B-base (bare) | +0.24 | +0.44 | +0.55 | **+0.64** | 2/20 | 1.61 |
 | Qwen2.5-7B instruct (bare) | +0.05 | +0.10 | +0.18 | **+0.43** | 3/20 | 0.71 |
-| Llama3.1-8B instruct (bare) — control | +0.67 | +1.28 | +1.87 | **+2.31** | 15/20 | 1.22 |
+| Llama8Base (bare) | +0.37 | +0.52 | +0.82 | **+0.96** | 10/20 | 1.85 |
+| Llama3.1-8B instruct (bare) | +0.67 | +1.28 | +1.87 | **+2.31** | 15/20 | 1.22 |
+
+Bases cluster low but are not identical: Llama8Base +0.96 (10/20 items >+1) vs Qwen/OLMo bases +0.64/+0.65 — paired diff +0.32/+0.31, p = .07/.10 (marginal, n=20), while base→own-instruct is unambiguous (Llama +0.96→+2.31, p = .007). Post-training multiplier by family: OLMo ×2.8, Llama ×2.4, Qwen ×0.7. Caveat: each base is dosed with its own family's instruct rollouts (own-voice principle), so material quality rides along with weights. Gemma12Base cell pending (downloading 2026-08-02).
 
 ## Exhibit 4 — Qwen2.5-7B hidden updates: judged conduct vs self-report at K=32 (arm A)
 
